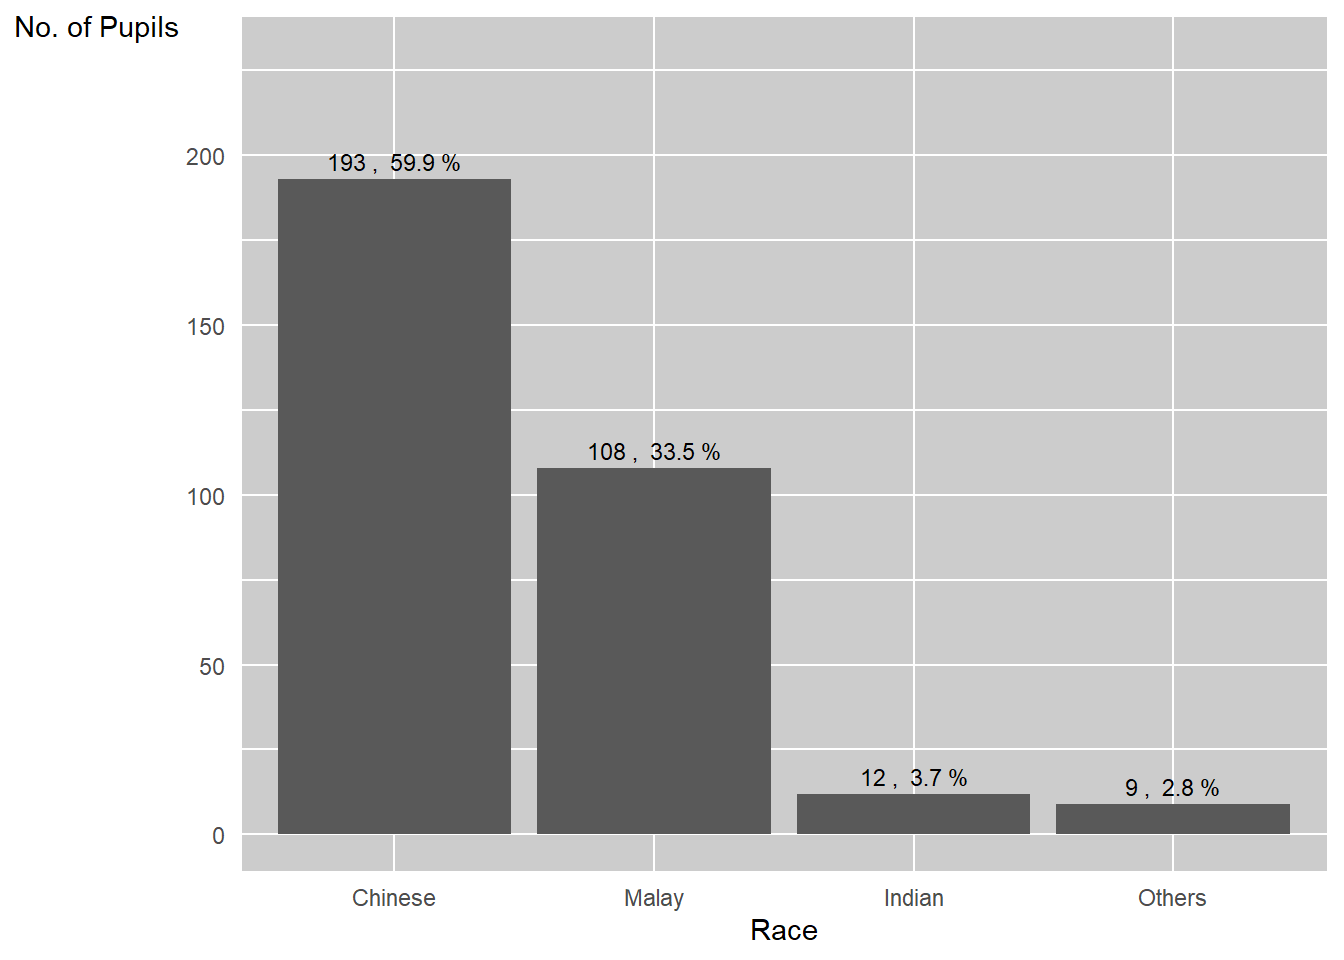
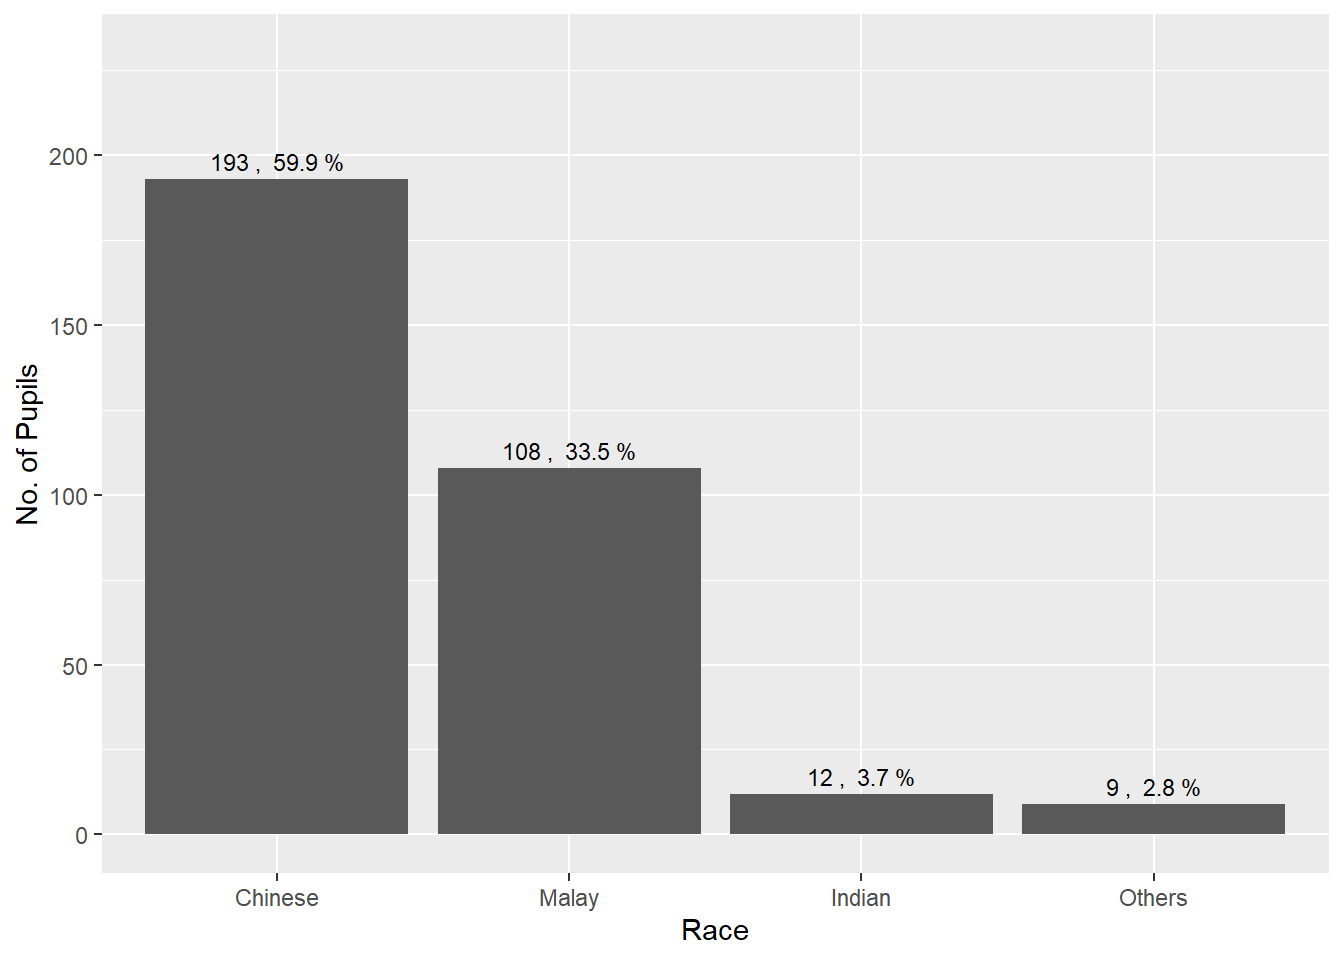
Work done before the 1st class

diff --git a/_site/Hands-on_Ex/Hands-on_Ex01/Hands-on_Ex01.html b/_site/Hands-on_Ex/Hands-on_Ex01/Hands-on_Ex01.html
@@ -204,6 +204,7 @@ code span.wa { color: #60a0b0; font-weight: bold; font-style: italic; } /* Warni
   <li><a href="#plotting-barchart-with-requested-theme-slide-53" id="toc-plotting-barchart-with-requested-theme-slide-53" class="nav-link" data-scroll-target="#plotting-barchart-with-requested-theme-slide-53">Plotting barchart with requested theme (slide 53)</a></li>
   <li><a href="#plotting-barchart-using-requested-format-slide-55" id="toc-plotting-barchart-using-requested-format-slide-55" class="nav-link" data-scroll-target="#plotting-barchart-using-requested-format-slide-55">Plotting barchart using requested format (slide 55)</a></li>
   <li><a href="#plotting-barchart-using-requested-format-slide-59" id="toc-plotting-barchart-using-requested-format-slide-59" class="nav-link" data-scroll-target="#plotting-barchart-using-requested-format-slide-59">Plotting barchart using requested format (slide 59)</a></li>
+  <li><a href="#plotting-barchart-for-requested-analysis-slide-60" id="toc-plotting-barchart-for-requested-analysis-slide-60" class="nav-link" data-scroll-target="#plotting-barchart-for-requested-analysis-slide-60">Plotting barchart for requested analysis (slide 60)</a></li>
   </ul>
 </nav>
     </div>
@@ -488,24 +489,20 @@ dbl (3): ENGLISH, MATHS, SCIENCE
 <span id="cb24-3"><a href="#cb24-3" aria-hidden="true" tabindex="-1"></a>  <span class="fu">geom_bar</span>() <span class="sc">+</span></span>
 <span id="cb24-4"><a href="#cb24-4" aria-hidden="true" tabindex="-1"></a>  <span class="fu">ylim</span>(<span class="fu">c</span>(<span class="dv">0</span>,<span class="dv">230</span>))<span class="sc">+</span></span>
 <span id="cb24-5"><a href="#cb24-5" aria-hidden="true" tabindex="-1"></a>  <span class="fu">geom_text</span>(<span class="at">stat =</span> <span class="st">'count'</span>,</span>
-<span id="cb24-6"><a href="#cb24-6" aria-hidden="true" tabindex="-1"></a>            <span class="fu">aes</span>(<span class="at">label =</span> <span class="fu">paste</span>(..count.., <span class="st">', '</span>, <span class="fu">round</span>(..count..<span class="sc">/</span><span class="fu">sum</span>(..count..) <span class="sc">*</span> <span class="dv">100</span>, <span class="dv">1</span>), <span class="st">'%'</span>)),</span>
+<span id="cb24-6"><a href="#cb24-6" aria-hidden="true" tabindex="-1"></a>            <span class="fu">aes</span>(<span class="at">label =</span> <span class="fu">paste</span>(<span class="fu">after_stat</span>(count), <span class="st">', '</span>, <span class="fu">round</span>(<span class="fu">after_stat</span>(count)<span class="sc">/</span><span class="fu">sum</span>(count) <span class="sc">*</span> <span class="dv">100</span>, <span class="dv">1</span>), <span class="st">'%'</span>)),</span>
 <span id="cb24-7"><a href="#cb24-7" aria-hidden="true" tabindex="-1"></a>            <span class="at">color =</span> <span class="st">'black'</span>,</span>
 <span id="cb24-8"><a href="#cb24-8" aria-hidden="true" tabindex="-1"></a>            <span class="at">size =</span> <span class="dv">3</span>,</span>
 <span id="cb24-9"><a href="#cb24-9" aria-hidden="true" tabindex="-1"></a>            <span class="at">vjust =</span> <span class="sc">-</span><span class="fl">0.5</span>) <span class="sc">+</span></span>
 <span id="cb24-10"><a href="#cb24-10" aria-hidden="true" tabindex="-1"></a>  <span class="fu">xlab</span>(<span class="st">'Race'</span>) <span class="sc">+</span></span>
-<span id="cb24-11"><a href="#cb24-11" aria-hidden="true" tabindex="-1"></a>  <span class="fu">ylab</span>(<span class="st">'No. of Pupils'</span>) <span class="sc">+</span></span>
-<span id="cb24-12"><a href="#cb24-12" aria-hidden="true" tabindex="-1"></a>  <span class="fu">theme_minimal</span>() <span class="sc">+</span></span>
-<span id="cb24-13"><a href="#cb24-13" aria-hidden="true" tabindex="-1"></a>  <span class="fu">theme</span>(<span class="at">panel.background =</span> <span class="fu">element_rect</span>(<span class="at">fill =</span> <span class="st">'grey80'</span>, <span class="at">color =</span> <span class="st">'white'</span>, <span class="at">size =</span> <span class="dv">1</span>, <span class="at">linetype =</span> <span class="st">'solid'</span>),</span>
-<span id="cb24-14"><a href="#cb24-14" aria-hidden="true" tabindex="-1"></a>        <span class="at">panel.grid.major =</span> <span class="fu">element_line</span>(<span class="at">color =</span> <span class="st">'white'</span>, <span class="at">linetype =</span> <span class="st">'solid'</span>, <span class="at">linewidth =</span> <span class="fl">0.5</span>),</span>
-<span id="cb24-15"><a href="#cb24-15" aria-hidden="true" tabindex="-1"></a>        <span class="at">panel.grid.minor =</span> <span class="fu">element_line</span>(<span class="at">color =</span> <span class="st">'white'</span>, <span class="at">linetype =</span> <span class="st">'solid'</span>, <span class="at">linewidth =</span> <span class="fl">0.5</span>),</span>
-<span id="cb24-16"><a href="#cb24-16" aria-hidden="true" tabindex="-1"></a>        <span class="at">axis.title.y =</span> <span class="fu">element_text</span>(<span class="at">angle =</span> <span class="dv">0</span>))</span></code><button title="Copy to Clipboard" class="code-copy-button"><i class="bi"></i></button></pre></div>
-<div class="cell-output cell-output-stderr">
-<pre><code>Warning: The dot-dot notation (`..count..`) was deprecated in ggplot2 3.4.0.
-ℹ Please use `after_stat(count)` instead.</code></pre>
-</div>
+<span id="cb24-11"><a href="#cb24-11" aria-hidden="true" tabindex="-1"></a>  <span class="fu">ylab</span>(<span class="st">'No. of Pupils'</span>)</span></code><button title="Copy to Clipboard" class="code-copy-button"><i class="bi"></i></button></pre></div>
 <div class="cell-output-display">
 <p><img src="Hands-on_Ex01_files/figure-html/unnamed-chunk-18-1.png" class="img-fluid" width="672"></p>
 </div>
+<div class="sourceCode cell-code" id="cb25"><pre class="sourceCode r code-with-copy"><code class="sourceCode r"><span id="cb25-1"><a href="#cb25-1" aria-hidden="true" tabindex="-1"></a>  <span class="co"># theme_minimal() +</span></span>
+<span id="cb25-2"><a href="#cb25-2" aria-hidden="true" tabindex="-1"></a>  <span class="co"># theme(panel.background = element_rect(fill = 'grey80', color = 'white', size = 1, linetype = 'solid'),</span></span>
+<span id="cb25-3"><a href="#cb25-3" aria-hidden="true" tabindex="-1"></a>  <span class="co">#       panel.grid.major = element_line(color = 'white', linetype = 'solid', linewidth = 0.5),</span></span>
+<span id="cb25-4"><a href="#cb25-4" aria-hidden="true" tabindex="-1"></a>  <span class="co">#       panel.grid.minor = element_line(color = 'white', linetype = 'solid', linewidth = 0.5),</span></span>
+<span id="cb25-5"><a href="#cb25-5" aria-hidden="true" tabindex="-1"></a>  <span class="co">#       axis.title.y = element_text(angle = 0))</span></span></code><button title="Copy to Clipboard" class="code-copy-button"><i class="bi"></i></button></pre></div>
 </div>
 </section>
 <section id="plotting-barchart-using-requested-format-slide-59" class="level1">
@@ -516,15 +513,40 @@ dbl (3): ENGLISH, MATHS, SCIENCE
 <span id="cb26-3"><a href="#cb26-3" aria-hidden="true" tabindex="-1"></a>  <span class="fu">geom_histogram</span>(<span class="at">bins =</span> <span class="dv">20</span>,</span>
 <span id="cb26-4"><a href="#cb26-4" aria-hidden="true" tabindex="-1"></a>                 <span class="at">fill =</span> <span class="st">'light blue'</span>,</span>
 <span id="cb26-5"><a href="#cb26-5" aria-hidden="true" tabindex="-1"></a>                 <span class="at">color =</span> <span class="st">'black'</span>) <span class="sc">+</span> </span>
-<span id="cb26-6"><a href="#cb26-6" aria-hidden="true" tabindex="-1"></a>  <span class="fu">geom_vline</span>(<span class="fu">aes</span>(<span class="at">xintercept =</span> <span class="fu">mean</span>(MATHS),</span>
-<span id="cb26-7"><a href="#cb26-7" aria-hidden="true" tabindex="-1"></a>                 <span class="at">color =</span> <span class="st">'red'</span>)) <span class="sc">+</span></span>
-<span id="cb26-8"><a href="#cb26-8" aria-hidden="true" tabindex="-1"></a>  <span class="fu">xlab</span>(<span class="st">'MATHS'</span>) <span class="sc">+</span></span>
-<span id="cb26-9"><a href="#cb26-9" aria-hidden="true" tabindex="-1"></a>  <span class="fu">ylab</span>(<span class="st">'count'</span>) <span class="sc">+</span></span>
-<span id="cb26-10"><a href="#cb26-10" aria-hidden="true" tabindex="-1"></a>  <span class="fu">theme</span>(<span class="at">panel.background =</span> <span class="fu">element_rect</span>(<span class="at">fill =</span> <span class="st">'grey80'</span>, <span class="at">color =</span> <span class="st">'white'</span>, <span class="at">size =</span> <span class="dv">1</span>, <span class="at">linetype =</span> <span class="st">'solid'</span>),</span>
-<span id="cb26-11"><a href="#cb26-11" aria-hidden="true" tabindex="-1"></a>        <span class="at">panel.grid.major =</span> <span class="fu">element_line</span>(<span class="at">color =</span> <span class="st">'white'</span>, <span class="at">linetype =</span> <span class="st">'solid'</span>, <span class="at">linewidth =</span> <span class="fl">0.5</span>),</span>
-<span id="cb26-12"><a href="#cb26-12" aria-hidden="true" tabindex="-1"></a>        <span class="at">panel.grid.minor =</span> <span class="fu">element_line</span>(<span class="at">color =</span> <span class="st">'white'</span>, <span class="at">linetype =</span> <span class="st">'solid'</span>, <span class="at">linewidth =</span> <span class="fl">0.5</span>))</span></code><button title="Copy to Clipboard" class="code-copy-button"><i class="bi"></i></button></pre></div>
+<span id="cb26-6"><a href="#cb26-6" aria-hidden="true" tabindex="-1"></a>  <span class="fu">geom_vline</span>(<span class="fu">aes</span>(<span class="at">xintercept =</span> <span class="fu">mean</span>(MATHS, <span class="at">na.rm =</span> T),</span>
+<span id="cb26-7"><a href="#cb26-7" aria-hidden="true" tabindex="-1"></a>                 <span class="at">color =</span> <span class="st">'red'</span>,</span>
+<span id="cb26-8"><a href="#cb26-8" aria-hidden="true" tabindex="-1"></a>                 <span class="at">linetype =</span> <span class="st">'dashed'</span>),</span>
+<span id="cb26-9"><a href="#cb26-9" aria-hidden="true" tabindex="-1"></a>             <span class="at">show.legend =</span> F) <span class="sc">+</span></span>
+<span id="cb26-10"><a href="#cb26-10" aria-hidden="true" tabindex="-1"></a>    <span class="fu">geom_vline</span>(<span class="fu">aes</span>(<span class="at">xintercept =</span> <span class="fu">median</span>(MATHS, <span class="at">na.rm =</span> T),</span>
+<span id="cb26-11"><a href="#cb26-11" aria-hidden="true" tabindex="-1"></a>                 <span class="at">color =</span> <span class="st">'black'</span>,</span>
+<span id="cb26-12"><a href="#cb26-12" aria-hidden="true" tabindex="-1"></a>                 <span class="at">linetype =</span> <span class="st">'dashed'</span>),</span>
+<span id="cb26-13"><a href="#cb26-13" aria-hidden="true" tabindex="-1"></a>             <span class="at">show.legend =</span> F) <span class="sc">+</span></span>
+<span id="cb26-14"><a href="#cb26-14" aria-hidden="true" tabindex="-1"></a>  <span class="fu">xlab</span>(<span class="st">'MATHS'</span>) <span class="sc">+</span></span>
+<span id="cb26-15"><a href="#cb26-15" aria-hidden="true" tabindex="-1"></a>  <span class="fu">ylab</span>(<span class="st">'count'</span>)</span></code><button title="Copy to Clipboard" class="code-copy-button"><i class="bi"></i></button></pre></div>
 <div class="cell-output-display">
 <p><img src="Hands-on_Ex01_files/figure-html/unnamed-chunk-19-1.png" class="img-fluid" width="672"></p>
+</div>
+</div>
+</section>
+<section id="plotting-barchart-for-requested-analysis-slide-60" class="level1">
+<h1>Plotting barchart for requested analysis (slide 60)</h1>
+<div class="cell">
+<div class="sourceCode cell-code" id="cb27"><pre class="sourceCode r code-with-copy"><code class="sourceCode r"><span id="cb27-1"><a href="#cb27-1" aria-hidden="true" tabindex="-1"></a><span class="co">#Don't know how to do this part...</span></span>
+<span id="cb27-2"><a href="#cb27-2" aria-hidden="true" tabindex="-1"></a><span class="fu">ggplot</span>(<span class="at">data =</span> exam_data,</span>
+<span id="cb27-3"><a href="#cb27-3" aria-hidden="true" tabindex="-1"></a>       <span class="fu">aes</span>(<span class="at">x =</span> ENGLISH,</span>
+<span id="cb27-4"><a href="#cb27-4" aria-hidden="true" tabindex="-1"></a>           <span class="at">fill =</span> GENDER)) <span class="sc">+</span></span>
+<span id="cb27-5"><a href="#cb27-5" aria-hidden="true" tabindex="-1"></a>  <span class="fu">geom_histogram</span>() <span class="sc">+</span></span>
+<span id="cb27-6"><a href="#cb27-6" aria-hidden="true" tabindex="-1"></a>  <span class="fu">facet_grid</span>(<span class="sc">~</span> GENDER) <span class="sc">+</span></span>
+<span id="cb27-7"><a href="#cb27-7" aria-hidden="true" tabindex="-1"></a>  <span class="fu">geom_histogram</span>(<span class="fu">aes</span>(<span class="at">x =</span> ENGLISH),</span>
+<span id="cb27-8"><a href="#cb27-8" aria-hidden="true" tabindex="-1"></a>                 <span class="at">alpha =</span> <span class="fl">0.5</span>) <span class="sc">+</span>  </span>
+<span id="cb27-9"><a href="#cb27-9" aria-hidden="true" tabindex="-1"></a>  <span class="fu">xlab</span>(<span class="st">'ENGLISH'</span>) <span class="sc">+</span></span>
+<span id="cb27-10"><a href="#cb27-10" aria-hidden="true" tabindex="-1"></a>  <span class="fu">ylab</span>(<span class="st">'count'</span>)</span></code><button title="Copy to Clipboard" class="code-copy-button"><i class="bi"></i></button></pre></div>
+<div class="cell-output cell-output-stderr">
+<pre><code>`stat_bin()` using `bins = 30`. Pick better value with `binwidth`.
+`stat_bin()` using `bins = 30`. Pick better value with `binwidth`.</code></pre>
+</div>
+<div class="cell-output-display">
+<p><img src="Hands-on_Ex01_files/figure-html/unnamed-chunk-20-1.png" class="img-fluid" width="672"></p>
 </div>
 </div>
 
